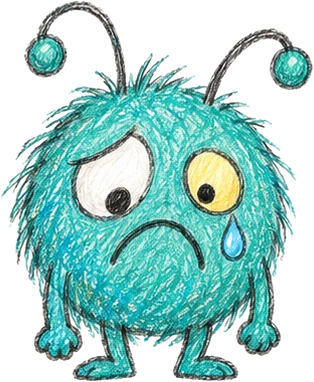
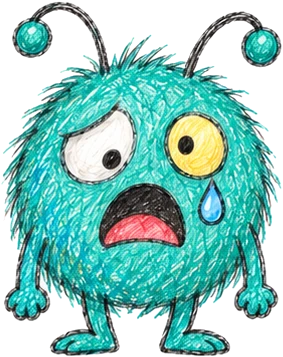
Swap in Mark's redrawn art
Desk Strikes: new ruler lane (numbers 0-20 in order) warped to the lane.
Pencil Parade: top-down compass pinned to the spinning hit line, low-angle sticky
note and hole. Marble Blitz: eraser pickup and row wipe, marble-free throw pose,
plain tall cup. Doodle Keeper: tall key notes. Cookie Drop: sad Doodle, front-view
thumbtack. Even Sketch: bell. Paper Peaks: taller flagless pediment, no stretch.

Claude-Session: https://claude.ai/code/session_01RHL5kGTAK9DAzNpimzCbyt

diff --git a/site/play/pencil-parade.html b/site/play/pencil-parade.html
@@ -585,8 +585,10 @@ function drawFlat(o,z){const c=ctx,s=sc(z);
     c.fillStyle='rgba(47,111,181,.22)';ell(c,X,cy,rx,ry);c.fill();c.strokeStyle=BLUE;c.lineWidth=Math.max(1,rx*.05);c.stroke();
     const rp=(time*.6+o.ph)%1;c.strokeStyle=`rgba(47,111,181,${1-rp})`;ell(c,X+rx*.1,cy,rx*.3+rx*.5*rp,ry*(.3+.5*rp));c.stroke()}
   else if(o.t==='pit'){const z0=z-o.d*.5,z1=z+o.d*.5,y0=py(z0,0),y1=py(z1,0);
-    if(ART.hole){// the dark middle of the drawing (about 80% of it) covers the hit box; the torn rim spills past it
-      const hw=(px(o.x+o.w,z)-px(o.x-o.w,z))/.8,hh=(y0-y1)/.8;c.drawImage(ART.hole,px(o.x,z)-hw/2,(y0+y1)/2-hh/2,hw,hh);return}
+    if(ART.hole){// Mark's torn hole, already drawn at a low angle: its black oval spans x 13-85%, y 17-90% of the image (centre 49%,53.5%).
+      // The oval is 1.35x the hit box's half-sizes so it covers the box (corners included, near enough); the torn white rim spills past it.
+      const im=ART.hole,ow=(px(o.x+o.w,z)-px(o.x-o.w,z))*1.35,oh=(y0-y1)*1.35,iw=ow/.72,ih=oh/.73;
+      c.drawImage(im,px(o.x,z)-iw*.49,(y0+y1)/2-ih*.535,iw,ih);return}
     const a=[px(o.x-o.w,z1),y1],b=[px(o.x+o.w,z1),y1],cc=[px(o.x+o.w,z0),y0],d=[px(o.x-o.w,z0),y0];
     // a hole torn out of the page: the desk shows through
     c.fillStyle='#d9d7cf';c.strokeStyle=INK;c.lineWidth=Math.max(1,1.6*s);c.lineJoin='round';
@@ -596,9 +598,9 @@ function drawFlat(o,z){const c=ctx,s=sc(z);
   else if(o.t==='towel'){const z0=z-.35,z1=z+.35,y0=py(z0,0),y1=py(z1,0);
     // a sticky note stuck to the page
     const xa=o.x-.25,xb=o.x+.25;
-    if(ART['sticky-note']){// lying flat on the page: squash the square note into the patch (mean of its far and near widths)
-      const im=ART['sticky-note'],mw=((px(xb,z1)-px(xa,z1))+(px(xb,z0)-px(xa,z0)))/2,mx=(px(xa,z1)+px(xb,z1)+px(xa,z0)+px(xb,z0))/4;
-      c.drawImage(im,mx-mw/2,y1,mw,y0-y1);return}
+    if(ART['sticky-note']){// Mark's note is already drawn lying flat at a low angle, so keep its own shape: as wide as the patch (mean of far and near widths), centred on it
+      const im=ART['sticky-note'],mw=((px(xb,z1)-px(xa,z1))+(px(xb,z0)-px(xa,z0)))/2,mx=(px(xa,z1)+px(xb,z1)+px(xa,z0)+px(xb,z0))/4,mh=mw*im.naturalHeight/im.naturalWidth;
+      c.drawImage(im,mx-mw/2,(y0+y1)/2-mh/2,mw,mh);return}
     c.fillStyle=TONES[o.c%2?1:0];c.strokeStyle=INK;c.lineWidth=Math.max(1,1.5*s);
     c.beginPath();c.moveTo(px(xa,z1),y1);c.lineTo(px(xb,z1),y1);c.lineTo(px(xb,z0),y0);c.lineTo(px(xa,z0),y0);c.closePath();c.fill();c.stroke();
     c.strokeStyle='rgba(85,85,92,.5)';c.lineWidth=1;c.beginPath();for(let k=1;k<4;k++){const zz=z0+(z1-z0)*k/4;c.moveTo(px(xa+.08,zz),py(zz,0));c.lineTo(px(xb-.08-(k===3?.14:0),zz),py(zz,0))}c.stroke()}
@@ -662,11 +664,12 @@ function drawBall(o,z){const c=ctx,s=sc(z),R=o.r*RW*s,X=px(o.x,z),Yg=py(z,0);sha
   c.strokeStyle=PINK;c.lineWidth=Math.max(1,R*.06);c.beginPath();c.moveTo(0,-R);c.quadraticCurveTo(R*.5,0,0,R);c.moveTo(0,-R);c.quadraticCurveTo(-R*.5,0,0,R);c.stroke();c.restore()}
 function drawSweep(o,z){const c=ctx,u=RW;shadowAt(o.x,z,.3);
   const ca=Math.cos(o.ang)*o.len,sa=Math.sin(o.ang)*o.len,y=.1;
-  if(ART.compass){// Mark's compass, seen from above, spinning: its hinge and points sit exactly on the two ends of the spinning bar (the hit line).
-    // The length follows the projected bar; the width is not squashed by the perspective so it stays readable when it points down the page.
-    const im=ART.compass,ax=px(o.x+ca,z+sa),ay=py(z+sa,.04),bx=px(o.x-ca,z-sa),by=py(z-sa,.04),dx=ax-bx,dy=ay-by,len=Math.hypot(dx,dy);
-    const wid=o.len*2*RW*sc(z)*im.naturalWidth/im.naturalHeight*.7,dl=Math.max(len,wid*.8);
-    c.save();c.translate((ax+bx)/2,(ay+by)/2);c.rotate(Math.atan2(dy,dx)-Math.PI/2);c.drawImage(im,-wid/2,-dl/2,wid,dl);c.restore();return}
+  if(ART.compass){// Mark's compass drawn from above, legs opened flat: needle tip (image x .5) and pencil tip (x 447.5) on the line y 106.5, hinge in the middle.
+    // Those two tips sit exactly on the two ends of the spinning bar (the hit line). Across that line the drawing keeps its own proportions as the
+    // line shortens with the perspective, but never gets thinner than 55% of its true width, so it still reads when it points down the road.
+    const im=ART.compass,IL=447,bx=px(o.x-ca,z-sa),by=py(z-sa,.04),ax=px(o.x+ca,z+sa),ay=py(z+sa,.04),ux=(ax-bx)/IL,uy=(ay-by)/IL,ul=Math.hypot(ux,uy)||1e-6;
+    const full=RW*sc(z)*2*o.len/IL,vl=Math.min(full,Math.max(ul,full*.55)),vx=-uy/ul*vl,vy=ux/ul*vl;
+    c.save();c.transform(ux,uy,vx,vy,bx-.5*ux-106.5*vx,by-.5*uy-106.5*vy);c.drawImage(im,0,0);c.restore();return}
   // a drawing compass spinning on its point: the two legs, far one first
   const ends=[[o.x+ca,z+sa,1],[o.x-ca,z-sa,0]].sort((a,b)=>b[1]-a[1]);
   for(const [ex,ez,pen] of ends){const X0=px(o.x,z),Y0=py(z,y),X1=px(ex,ez),Y1=py(ez,y),w=Math.max(2,.07*u*sc((z+ez)/2));

diff --git a/src/games/pencil-parade.html b/src/games/pencil-parade.html
@@ -564,8 +564,10 @@ function drawFlat(o,z){const c=ctx,s=sc(z);
     c.fillStyle='rgba(47,111,181,.22)';ell(c,X,cy,rx,ry);c.fill();c.strokeStyle=BLUE;c.lineWidth=Math.max(1,rx*.05);c.stroke();
     const rp=(time*.6+o.ph)%1;c.strokeStyle=`rgba(47,111,181,${1-rp})`;ell(c,X+rx*.1,cy,rx*.3+rx*.5*rp,ry*(.3+.5*rp));c.stroke()}
   else if(o.t==='pit'){const z0=z-o.d*.5,z1=z+o.d*.5,y0=py(z0,0),y1=py(z1,0);
-    if(ART.hole){// the dark middle of the drawing (about 80% of it) covers the hit box; the torn rim spills past it
-      const hw=(px(o.x+o.w,z)-px(o.x-o.w,z))/.8,hh=(y0-y1)/.8;c.drawImage(ART.hole,px(o.x,z)-hw/2,(y0+y1)/2-hh/2,hw,hh);return}
+    if(ART.hole){// Mark's torn hole, already drawn at a low angle: its black oval spans x 13-85%, y 17-90% of the image (centre 49%,53.5%).
+      // The oval is 1.35x the hit box's half-sizes so it covers the box (corners included, near enough); the torn white rim spills past it.
+      const im=ART.hole,ow=(px(o.x+o.w,z)-px(o.x-o.w,z))*1.35,oh=(y0-y1)*1.35,iw=ow/.72,ih=oh/.73;
+      c.drawImage(im,px(o.x,z)-iw*.49,(y0+y1)/2-ih*.535,iw,ih);return}
     const a=[px(o.x-o.w,z1),y1],b=[px(o.x+o.w,z1),y1],cc=[px(o.x+o.w,z0),y0],d=[px(o.x-o.w,z0),y0];
     // a hole torn out of the page: the desk shows through
     c.fillStyle='#d9d7cf';c.strokeStyle=INK;c.lineWidth=Math.max(1,1.6*s);c.lineJoin='round';
@@ -575,9 +577,9 @@ function drawFlat(o,z){const c=ctx,s=sc(z);
   else if(o.t==='towel'){const z0=z-.35,z1=z+.35,y0=py(z0,0),y1=py(z1,0);
     // a sticky note stuck to the page
     const xa=o.x-.25,xb=o.x+.25;
-    if(ART['sticky-note']){// lying flat on the page: squash the square note into the patch (mean of its far and near widths)
-      const im=ART['sticky-note'],mw=((px(xb,z1)-px(xa,z1))+(px(xb,z0)-px(xa,z0)))/2,mx=(px(xa,z1)+px(xb,z1)+px(xa,z0)+px(xb,z0))/4;
-      c.drawImage(im,mx-mw/2,y1,mw,y0-y1);return}
+    if(ART['sticky-note']){// Mark's note is already drawn lying flat at a low angle, so keep its own shape: as wide as the patch (mean of far and near widths), centred on it
+      const im=ART['sticky-note'],mw=((px(xb,z1)-px(xa,z1))+(px(xb,z0)-px(xa,z0)))/2,mx=(px(xa,z1)+px(xb,z1)+px(xa,z0)+px(xb,z0))/4,mh=mw*im.naturalHeight/im.naturalWidth;
+      c.drawImage(im,mx-mw/2,(y0+y1)/2-mh/2,mw,mh);return}
     c.fillStyle=TONES[o.c%2?1:0];c.strokeStyle=INK;c.lineWidth=Math.max(1,1.5*s);
     c.beginPath();c.moveTo(px(xa,z1),y1);c.lineTo(px(xb,z1),y1);c.lineTo(px(xb,z0),y0);c.lineTo(px(xa,z0),y0);c.closePath();c.fill();c.stroke();
     c.strokeStyle='rgba(85,85,92,.5)';c.lineWidth=1;c.beginPath();for(let k=1;k<4;k++){const zz=z0+(z1-z0)*k/4;c.moveTo(px(xa+.08,zz),py(zz,0));c.lineTo(px(xb-.08-(k===3?.14:0),zz),py(zz,0))}c.stroke()}
@@ -641,11 +643,12 @@ function drawBall(o,z){const c=ctx,s=sc(z),R=o.r*RW*s,X=px(o.x,z),Yg=py(z,0);sha
   c.strokeStyle=PINK;c.lineWidth=Math.max(1,R*.06);c.beginPath();c.moveTo(0,-R);c.quadraticCurveTo(R*.5,0,0,R);c.moveTo(0,-R);c.quadraticCurveTo(-R*.5,0,0,R);c.stroke();c.restore()}
 function drawSweep(o,z){const c=ctx,u=RW;shadowAt(o.x,z,.3);
   const ca=Math.cos(o.ang)*o.len,sa=Math.sin(o.ang)*o.len,y=.1;
-  if(ART.compass){// Mark's compass, seen from above, spinning: its hinge and points sit exactly on the two ends of the spinning bar (the hit line).
-    // The length follows the projected bar; the width is not squashed by the perspective so it stays readable when it points down the page.
-    const im=ART.compass,ax=px(o.x+ca,z+sa),ay=py(z+sa,.04),bx=px(o.x-ca,z-sa),by=py(z-sa,.04),dx=ax-bx,dy=ay-by,len=Math.hypot(dx,dy);
-    const wid=o.len*2*RW*sc(z)*im.naturalWidth/im.naturalHeight*.7,dl=Math.max(len,wid*.8);
-    c.save();c.translate((ax+bx)/2,(ay+by)/2);c.rotate(Math.atan2(dy,dx)-Math.PI/2);c.drawImage(im,-wid/2,-dl/2,wid,dl);c.restore();return}
+  if(ART.compass){// Mark's compass drawn from above, legs opened flat: needle tip (image x .5) and pencil tip (x 447.5) on the line y 106.5, hinge in the middle.
+    // Those two tips sit exactly on the two ends of the spinning bar (the hit line). Across that line the drawing keeps its own proportions as the
+    // line shortens with the perspective, but never gets thinner than 55% of its true width, so it still reads when it points down the road.
+    const im=ART.compass,IL=447,bx=px(o.x-ca,z-sa),by=py(z-sa,.04),ax=px(o.x+ca,z+sa),ay=py(z+sa,.04),ux=(ax-bx)/IL,uy=(ay-by)/IL,ul=Math.hypot(ux,uy)||1e-6;
+    const full=RW*sc(z)*2*o.len/IL,vl=Math.min(full,Math.max(ul,full*.55)),vx=-uy/ul*vl,vy=ux/ul*vl;
+    c.save();c.transform(ux,uy,vx,vy,bx-.5*ux-106.5*vx,by-.5*uy-106.5*vy);c.drawImage(im,0,0);c.restore();return}
   // a drawing compass spinning on its point: the two legs, far one first
   const ends=[[o.x+ca,z+sa,1],[o.x-ca,z-sa,0]].sort((a,b)=>b[1]-a[1]);
   for(const [ex,ez,pen] of ends){const X0=px(o.x,z),Y0=py(z,y),X1=px(ex,ez),Y1=py(ez,y),w=Math.max(2,.07*u*sc((z+ez)/2));

diff --git a/site/play/marble-blitz.html b/site/play/marble-blitz.html
@@ -204,11 +204,11 @@ const sfx={
 };
 
 /* ---------- Mark's art ----------
-   Marbles, the three cup tiers, the buddy (idle + mid-flick), paper clips, gold stars, the crumpled-paper poof and the wooden desk are
-   Mark's drawings from ../assets/marble-blitz/. The code-drawn doodles stay as fallbacks until each image loads. The pink eraser is still code-drawn. */
+   Marbles, the three cup tiers, the buddy (idle + mid-flick), paper clips, gold stars, the crumpled-paper poof, the pink eraser and
+   the wooden desk are Mark's drawings from ../assets/marble-blitz/. The code-drawn doodles stay as fallbacks until each image loads. */
 const ART={};
 function load(n){const i=new Image();i.decoding='async';i.onload=()=>{if(n==='desk'&&bgCanvas)buildArt();if($('hero'))drawHero()};i.onerror=()=>{};i.src='../assets/marble-blitz/'+n+'.webp';ART[n]=i}
-['marble','cup-low','cup-mid','cup-high','buddy','buddy-throw','clip','star','poof','desk'].forEach(load);
+['marble','cup-low','cup-mid','cup-high','buddy','buddy-throw','clip','star','poof','desk','eraser'].forEach(load);
 function art(n){const i=ART[n];return i&&i.complete&&i.naturalWidth?i:null}
 function sprite(im,cx,cy,w,h,rot){ctx.save();ctx.translate(cx,cy);if(rot)ctx.rotate(rot);ctx.drawImage(im,-w/2,-h/2,w,h);ctx.restore()}
 // a cup drawing with its tier colour laid over it as a coloured-pencil wash (cached per tier/colour/size)
@@ -486,6 +486,7 @@ function draw(){
   lvMax=1;for(const it of items)if(it.kind==='block'&&it.max>lvMax)lvMax=it.max;
   for(const it of items)drawItem(it);
   for(const p of puffs)drawPuff(p);
+  for(const w of waves)drawWaveEraser(w);
   for(const f of flyers)drawFlyer(f);
   if(showAim&&state==='aim'&&aimOK)drawAim();
   if(nextX!==null&&state==='fire'&&Math.abs(nextX-launchX)>2){ctx.globalAlpha=.55+.25*Math.sin(T*8);drawBall(nextX,FLOOR-R);ctx.globalAlpha=1}
@@ -525,6 +526,14 @@ function drawWave(w){
   for(const d of[-1,1]){const X=w.x+d*reach;for(let i=0;i<5;i++){ctx.beginPath();ctx.arc(X-d*i*6,y-CELL/2+8+i*8,3.5-i*.4,0,7);ctx.fill();ctx.stroke()}}
   ctx.restore();
 }
+function drawWaveEraser(w){
+  // the eraser drawing itself rubbing along at each end of the smudge (drawn over the paper poofs so it stays visible)
+  const im=art('eraser');if(!im)return;const k=w.t/.75,y=cellY(w.row),reach=k*W*1.1,[ew,eh]=fitIn(im,36,26);
+  ctx.save();ctx.globalAlpha=Math.min(1,(1-k)*1.6);
+  for(const d of[-1,1]){const X=w.x+d*reach;if(X<-ew||X>W+ew)continue;
+    ctx.save();ctx.translate(X,y+Math.sin(w.t*40+d)*1.5);ctx.rotate(d*.12);if(d<0)ctx.scale(-1,1);ctx.drawImage(im,-ew/2,-eh/2,ew,eh);ctx.restore()}
+  ctx.restore();
+}
 function drawItem(it){
   const x=cellX(it.c),y=cellY(it.r)+it.dy;
   if(it.kind==='block')return drawCastle(it,x,y);
@@ -553,6 +562,9 @@ function drawItem(it){
     ctx.restore();
   }else if(it.kind==='wave'){
     // a pink eraser; touch it and it rubs out its whole row
+    const im=art('eraser');
+    if(im){ctx.save();ctx.translate(x,y+bob);ctx.fillStyle='rgba(46,46,51,.15)';ctx.beginPath();ctx.ellipse(1,13,16,3.5,0,0,7);ctx.fill();
+      ctx.rotate(-.12+Math.sin(T*2+it.ph)*.08);const[w,h]=fitIn(im,36,26);ctx.drawImage(im,-w/2,-h/2,w,h);ctx.restore();return}
     ctx.save();ctx.translate(x,y+bob);ctx.rotate(-.35+Math.sin(T*2+it.ph)*.08);
     ctx.fillStyle='rgba(46,46,51,.15)';ctx.beginPath();ctx.ellipse(1,13,15,3.5,0,0,7);ctx.fill();
     ctx.fillStyle=PINK_W;ctx.strokeStyle=PINK;ctx.lineWidth=1.8;ctx.lineJoin='round';
@@ -624,8 +636,8 @@ function drawCrab(){
   const throwing=state==='fire'&&toFire>0,im=art(throwing?'buddy-throw':'buddy')||art('buddy');
   if(im){
     ctx.fillStyle='rgba(46,46,51,.2)';ctx.beginPath();ctx.ellipse(x,FLOOR+30,24,4,0,0,7);ctx.fill();
-    // both drawings share one body scale; the scribble body (not the bag / thrown marble) sits over the launch point, feet on the desk
-    const thr=im===art('buddy-throw'),cw=thr?80:58,ch=cw*im.naturalHeight/im.naturalWidth,bx=thr?.31:.35;
+    // both drawings share one body scale; the scribble body (not the bag / flicking arm) sits over the launch point, feet on the desk
+    const thr=im===art('buddy-throw'),cw=thr?57:58,ch=cw*im.naturalHeight/im.naturalWidth,bx=thr?.39:.35;
     ctx.save();ctx.translate(x+(.5-bx)*cw,FLOOR+31-ch/2);ctx.rotate(w*.06);ctx.drawImage(im,-cw/2,-ch/2,cw,ch);ctx.restore();
   }else{
   ctx.save();ctx.translate(x,y);

diff --git a/src/games/marble-blitz.html b/src/games/marble-blitz.html
@@ -183,11 +183,11 @@ const sfx={
 };
 
 /* ---------- Mark's art ----------
-   Marbles, the three cup tiers, the buddy (idle + mid-flick), paper clips, gold stars, the crumpled-paper poof and the wooden desk are
-   Mark's drawings from ../assets/marble-blitz/. The code-drawn doodles stay as fallbacks until each image loads. The pink eraser is still code-drawn. */
+   Marbles, the three cup tiers, the buddy (idle + mid-flick), paper clips, gold stars, the crumpled-paper poof, the pink eraser and
+   the wooden desk are Mark's drawings from ../assets/marble-blitz/. The code-drawn doodles stay as fallbacks until each image loads. */
 const ART={};
 function load(n){const i=new Image();i.decoding='async';i.onload=()=>{if(n==='desk'&&bgCanvas)buildArt();if($('hero'))drawHero()};i.onerror=()=>{};i.src='../assets/marble-blitz/'+n+'.webp';ART[n]=i}
-['marble','cup-low','cup-mid','cup-high','buddy','buddy-throw','clip','star','poof','desk'].forEach(load);
+['marble','cup-low','cup-mid','cup-high','buddy','buddy-throw','clip','star','poof','desk','eraser'].forEach(load);
 function art(n){const i=ART[n];return i&&i.complete&&i.naturalWidth?i:null}
 function sprite(im,cx,cy,w,h,rot){ctx.save();ctx.translate(cx,cy);if(rot)ctx.rotate(rot);ctx.drawImage(im,-w/2,-h/2,w,h);ctx.restore()}
 // a cup drawing with its tier colour laid over it as a coloured-pencil wash (cached per tier/colour/size)
@@ -465,6 +465,7 @@ function draw(){
   lvMax=1;for(const it of items)if(it.kind==='block'&&it.max>lvMax)lvMax=it.max;
   for(const it of items)drawItem(it);
   for(const p of puffs)drawPuff(p);
+  for(const w of waves)drawWaveEraser(w);
   for(const f of flyers)drawFlyer(f);
   if(showAim&&state==='aim'&&aimOK)drawAim();
   if(nextX!==null&&state==='fire'&&Math.abs(nextX-launchX)>2){ctx.globalAlpha=.55+.25*Math.sin(T*8);drawBall(nextX,FLOOR-R);ctx.globalAlpha=1}
@@ -504,6 +505,14 @@ function drawWave(w){
   for(const d of[-1,1]){const X=w.x+d*reach;for(let i=0;i<5;i++){ctx.beginPath();ctx.arc(X-d*i*6,y-CELL/2+8+i*8,3.5-i*.4,0,7);ctx.fill();ctx.stroke()}}
   ctx.restore();
 }
+function drawWaveEraser(w){
+  // the eraser drawing itself rubbing along at each end of the smudge (drawn over the paper poofs so it stays visible)
+  const im=art('eraser');if(!im)return;const k=w.t/.75,y=cellY(w.row),reach=k*W*1.1,[ew,eh]=fitIn(im,36,26);
+  ctx.save();ctx.globalAlpha=Math.min(1,(1-k)*1.6);
+  for(const d of[-1,1]){const X=w.x+d*reach;if(X<-ew||X>W+ew)continue;
+    ctx.save();ctx.translate(X,y+Math.sin(w.t*40+d)*1.5);ctx.rotate(d*.12);if(d<0)ctx.scale(-1,1);ctx.drawImage(im,-ew/2,-eh/2,ew,eh);ctx.restore()}
+  ctx.restore();
+}
 function drawItem(it){
   const x=cellX(it.c),y=cellY(it.r)+it.dy;
   if(it.kind==='block')return drawCastle(it,x,y);
@@ -532,6 +541,9 @@ function drawItem(it){
     ctx.restore();
   }else if(it.kind==='wave'){
     // a pink eraser; touch it and it rubs out its whole row
+    const im=art('eraser');
+    if(im){ctx.save();ctx.translate(x,y+bob);ctx.fillStyle='rgba(46,46,51,.15)';ctx.beginPath();ctx.ellipse(1,13,16,3.5,0,0,7);ctx.fill();
+      ctx.rotate(-.12+Math.sin(T*2+it.ph)*.08);const[w,h]=fitIn(im,36,26);ctx.drawImage(im,-w/2,-h/2,w,h);ctx.restore();return}
     ctx.save();ctx.translate(x,y+bob);ctx.rotate(-.35+Math.sin(T*2+it.ph)*.08);
     ctx.fillStyle='rgba(46,46,51,.15)';ctx.beginPath();ctx.ellipse(1,13,15,3.5,0,0,7);ctx.fill();
     ctx.fillStyle=PINK_W;ctx.strokeStyle=PINK;ctx.lineWidth=1.8;ctx.lineJoin='round';
@@ -603,8 +615,8 @@ function drawCrab(){
   const throwing=state==='fire'&&toFire>0,im=art(throwing?'buddy-throw':'buddy')||art('buddy');
   if(im){
     ctx.fillStyle='rgba(46,46,51,.2)';ctx.beginPath();ctx.ellipse(x,FLOOR+30,24,4,0,0,7);ctx.fill();
-    // both drawings share one body scale; the scribble body (not the bag / thrown marble) sits over the launch point, feet on the desk
-    const thr=im===art('buddy-throw'),cw=thr?80:58,ch=cw*im.naturalHeight/im.naturalWidth,bx=thr?.31:.35;
+    // both drawings share one body scale; the scribble body (not the bag / flicking arm) sits over the launch point, feet on the desk
+    const thr=im===art('buddy-throw'),cw=thr?57:58,ch=cw*im.naturalHeight/im.naturalWidth,bx=thr?.39:.35;
     ctx.save();ctx.translate(x+(.5-bx)*cw,FLOOR+31-ch/2);ctx.rotate(w*.06);ctx.drawImage(im,-cw/2,-ch/2,cw,ch);ctx.restore();
   }else{
   ctx.save();ctx.translate(x,y);

diff --git a/site/play/cookie-drop.html b/site/play/cookie-drop.html
@@ -581,8 +581,10 @@ function drawPuddle(t){
 }
 function drawPeg(x,y,r){ // a thumbtack: round head, needle pushed into the cork
   ctx.save();ctx.translate(x,y);
+  const im=art('thumbtack');if(im){ // Mark's pushpin, seen from the front: round head centred on the anchor, soft shadow on the cork
+    ctx.fillStyle='rgba(46,46,51,.22)';ctx.beginPath();ctx.arc(2,3,r*1.02,0,TAU);ctx.fill();
+    const k=r*2.15/180;ctx.drawImage(im,-90*k,-89.5*k,180*k,179*k);ctx.restore();return}
   ctx.fillStyle='rgba(46,46,51,.2)';ctx.beginPath();ctx.ellipse(3,r+5,r*.8,2.5,0,0,TAU);ctx.fill();
-  const im=art('thumbtack');if(im){const k=r*2.2/151;ctx.drawImage(im,-74*k,-66*k,151*k,257*k);ctx.restore();return} // Mark's pushpin: head centred on the anchor, needle into the cork
   ctx.strokeStyle=INK;ctx.lineWidth=2;ctx.lineCap='round';ctx.beginPath();ctx.moveTo(0,r*.5);ctx.lineTo(0,r+4);ctx.stroke();
   ctx.fillStyle='#e4e2d8';wobCircle(0,0,r,x*.1);ctx.fill();ctx.save();ctx.clip();hatch(0,0,r,r,4,.4);ctx.restore();ctx.strokeStyle=INK;ctx.lineWidth=1.8;wobCircle(0,0,r,x*.1);ctx.stroke();
   ctx.fillStyle=PAPER;wobCircle(0,0,r*.42,x*.3);ctx.fill();ctx.lineWidth=1.3;ctx.stroke();
@@ -693,8 +695,9 @@ function drawDoodle(t){ // Doodle: a hand-drawn doodle monster, mouth open at th
   const op=doodleMood.open,blink=doodleMood.blink<.12,lx=doodleMood.look[0],ly=doodleMood.look[1];
   ctx.fillStyle='rgba(46,46,51,.18)';ctx.beginPath();ctx.ellipse(px+4,py+48,44,8,0,0,TAU);ctx.fill();
   const dn=sad?'doodle-sad':(munch||happy)?'doodle-munching':'doodle-waiting',dim=art(dn);
-  if(dim){ // Mark's Doodle: the mouth sits on the catch point (sad lines up the feet instead, since the cookie is gone by then)
-    const K=.3,A={'doodle-waiting':[149,232,331,402],'doodle-munching':[175,225,375,398],'doodle-sad':[159,235,314,382]}[dn];
+  if(dim){ // Mark's Doodle: the mouth sits on the catch point. Sad lines up the feet instead: its mouth sits only 142px above its feet
+    // (vs ~170 for the other two), so mouth-aligning would lift Doodle ~8px off the cork when he gets sad; the cookie is gone by then anyway
+    const K=.3,A={'doodle-waiting':[149,232,331,402],'doodle-munching':[175,225,375,398],'doodle-sad':[145,215,283,357]}[dn];
     ctx.save();ctx.translate(px,sad?py+51-(A[3]-A[1])*K:py);if(happy)ctx.rotate(Math.sin(T*10)*.03);
     ctx.scale(1+op*.06+chew*.04-breathe*.004,1+op*.06-chew*.05+breathe*.004);
     ctx.drawImage(dim,-A[0]*K,-A[1]*K,A[2]*K,A[3]*K);ctx.restore();

diff --git a/src/games/cookie-drop.html b/src/games/cookie-drop.html
@@ -560,8 +560,10 @@ function drawPuddle(t){
 }
 function drawPeg(x,y,r){ // a thumbtack: round head, needle pushed into the cork
   ctx.save();ctx.translate(x,y);
+  const im=art('thumbtack');if(im){ // Mark's pushpin, seen from the front: round head centred on the anchor, soft shadow on the cork
+    ctx.fillStyle='rgba(46,46,51,.22)';ctx.beginPath();ctx.arc(2,3,r*1.02,0,TAU);ctx.fill();
+    const k=r*2.15/180;ctx.drawImage(im,-90*k,-89.5*k,180*k,179*k);ctx.restore();return}
   ctx.fillStyle='rgba(46,46,51,.2)';ctx.beginPath();ctx.ellipse(3,r+5,r*.8,2.5,0,0,TAU);ctx.fill();
-  const im=art('thumbtack');if(im){const k=r*2.2/151;ctx.drawImage(im,-74*k,-66*k,151*k,257*k);ctx.restore();return} // Mark's pushpin: head centred on the anchor, needle into the cork
   ctx.strokeStyle=INK;ctx.lineWidth=2;ctx.lineCap='round';ctx.beginPath();ctx.moveTo(0,r*.5);ctx.lineTo(0,r+4);ctx.stroke();
   ctx.fillStyle='#e4e2d8';wobCircle(0,0,r,x*.1);ctx.fill();ctx.save();ctx.clip();hatch(0,0,r,r,4,.4);ctx.restore();ctx.strokeStyle=INK;ctx.lineWidth=1.8;wobCircle(0,0,r,x*.1);ctx.stroke();
   ctx.fillStyle=PAPER;wobCircle(0,0,r*.42,x*.3);ctx.fill();ctx.lineWidth=1.3;ctx.stroke();
@@ -672,8 +674,9 @@ function drawDoodle(t){ // Doodle: a hand-drawn doodle monster, mouth open at th
   const op=doodleMood.open,blink=doodleMood.blink<.12,lx=doodleMood.look[0],ly=doodleMood.look[1];
   ctx.fillStyle='rgba(46,46,51,.18)';ctx.beginPath();ctx.ellipse(px+4,py+48,44,8,0,0,TAU);ctx.fill();
   const dn=sad?'doodle-sad':(munch||happy)?'doodle-munching':'doodle-waiting',dim=art(dn);
-  if(dim){ // Mark's Doodle: the mouth sits on the catch point (sad lines up the feet instead, since the cookie is gone by then)
-    const K=.3,A={'doodle-waiting':[149,232,331,402],'doodle-munching':[175,225,375,398],'doodle-sad':[159,235,314,382]}[dn];
+  if(dim){ // Mark's Doodle: the mouth sits on the catch point. Sad lines up the feet instead: its mouth sits only 142px above its feet
+    // (vs ~170 for the other two), so mouth-aligning would lift Doodle ~8px off the cork when he gets sad; the cookie is gone by then anyway
+    const K=.3,A={'doodle-waiting':[149,232,331,402],'doodle-munching':[175,225,375,398],'doodle-sad':[145,215,283,357]}[dn];
     ctx.save();ctx.translate(px,sad?py+51-(A[3]-A[1])*K:py);if(happy)ctx.rotate(Math.sin(T*10)*.03);
     ctx.scale(1+op*.06+chew*.04-breathe*.004,1+op*.06-chew*.05+breathe*.004);
     ctx.drawImage(dim,-A[0]*K,-A[1]*K,A[2]*K,A[3]*K);ctx.restore();

diff --git a/site/play/paper-peaks.html b/site/play/paper-peaks.html
@@ -393,10 +393,12 @@ function buildBG(){
   const {w,h,step,left,top}=Lay;
   const pim=art('pediment');
   for(let p=0;p<3&&pim;p++){
-    // Mark's folded-paper mountain, apex on the old peak, base on the old base line
-    const cx=left+(1.5+3*p)*step+w/2,base=top+Lay.tabH-h*.12,peak=top-h*.32,hw=step*2.1;
+    // Mark's folded-paper mountain at its own proportions (apex at x 153.5, y 2 of 308x277; sides' bottom edge at y 258):
+    // apex peeks just above the top card so the flag stands on it; as wide as the outer ones can go without running off the board
+    const cx=left+(1.5+3*p)*step+w/2,apex=top-h*.2,edge=left+1.5*step+w/2;
+    const k=Math.min(2*edge/308,(top+Lay.tabH-apex)/256),hw=154*k,y0=apex-2*k,base=y0+258*k;
     g.fillStyle='rgba(46,46,51,.12)';g.beginPath();g.ellipse(cx,base+h*.04,hw*.98,h*.12,0,0,7);g.fill();
-    const ax=(206/421)*2*hw;g.drawImage(pim,cx-ax,peak,hw*2,base-peak);
+    g.drawImage(pim,cx-153.5*k,y0,308*k,277*k);
   }
   for(let p=0;p<3&&!pim;p++){
     const cx=left+(1.5+3*p)*step+w/2,base=top+Lay.tabH-h*.12,peak=top-h*.32,hw=step*1.85;

diff --git a/src/games/paper-peaks.html b/src/games/paper-peaks.html
@@ -372,10 +372,12 @@ function buildBG(){
   const {w,h,step,left,top}=Lay;
   const pim=art('pediment');
   for(let p=0;p<3&&pim;p++){
-    // Mark's folded-paper mountain, apex on the old peak, base on the old base line
-    const cx=left+(1.5+3*p)*step+w/2,base=top+Lay.tabH-h*.12,peak=top-h*.32,hw=step*2.1;
+    // Mark's folded-paper mountain at its own proportions (apex at x 153.5, y 2 of 308x277; sides' bottom edge at y 258):
+    // apex peeks just above the top card so the flag stands on it; as wide as the outer ones can go without running off the board
+    const cx=left+(1.5+3*p)*step+w/2,apex=top-h*.2,edge=left+1.5*step+w/2;
+    const k=Math.min(2*edge/308,(top+Lay.tabH-apex)/256),hw=154*k,y0=apex-2*k,base=y0+258*k;
     g.fillStyle='rgba(46,46,51,.12)';g.beginPath();g.ellipse(cx,base+h*.04,hw*.98,h*.12,0,0,7);g.fill();
-    const ax=(206/421)*2*hw;g.drawImage(pim,cx-ax,peak,hw*2,base-peak);
+    g.drawImage(pim,cx-153.5*k,y0,308*k,277*k);
   }
   for(let p=0;p<3&&!pim;p++){
     const cx=left+(1.5+3*p)*step+w/2,base=top+Lay.tabH-h*.12,peak=top-h*.32,hw=step*1.85;
